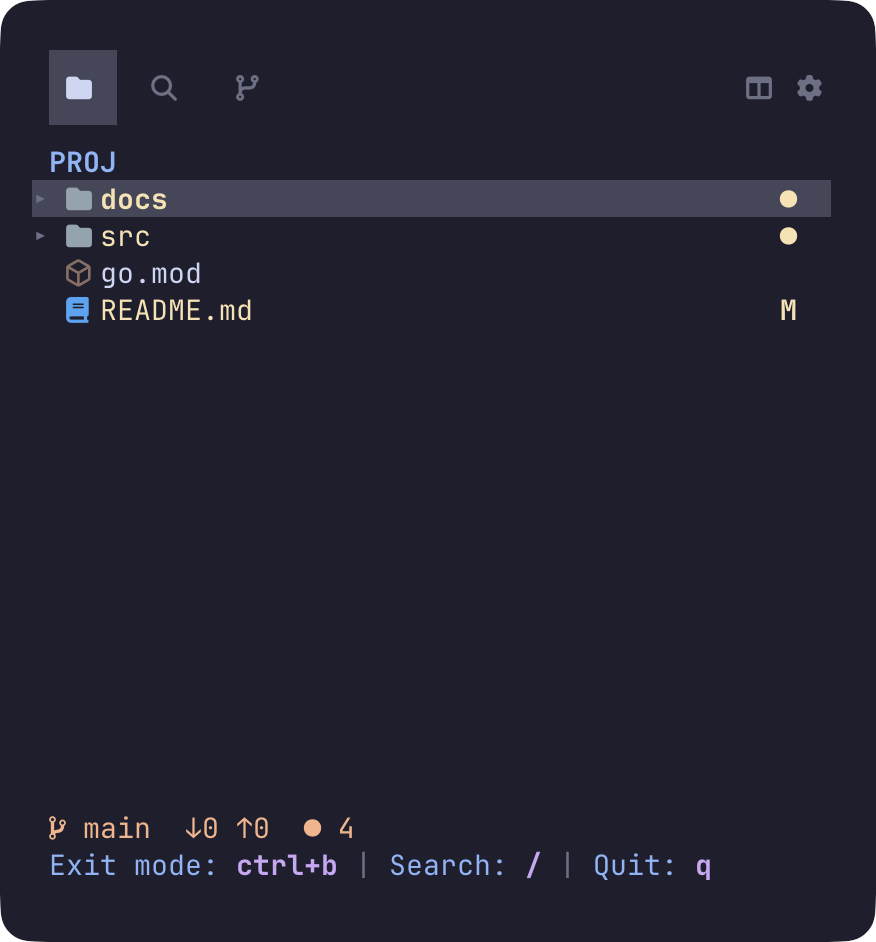
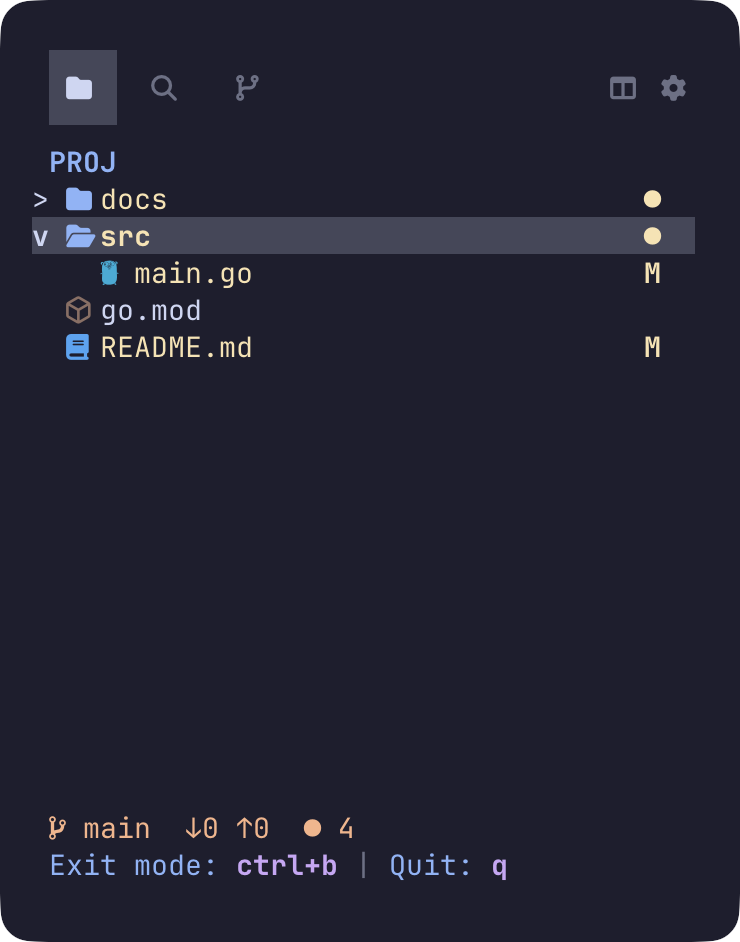
fix(ui): give the sidebar the colors of the window and switch modes at one small width
The sidebar rows used the herdr blue-grey folders, dimmed triangles and plain names, so the two modes looked like two programs. They now wear the colors of the normal window: > and v before a folder, blue folder icons and names. The sidebar became the window again only from 80 columns; now it switches back from 62, two cells over the limit where the window becomes the sidebar.

diff --git a/internal/ui/herdrlook_test.go b/internal/ui/herdrlook_test.go
@@ -4,6 +4,7 @@ import (
 	"strings"
 	"testing"
 
+	"github.com/MathiasDrizzy/lazyfinder/internal/icons"
 	"github.com/charmbracelet/x/ansi"
 )
 
@@ -58,24 +59,19 @@ func TestTheSidebarRowsAreTheIndentTheTriangleTheIconAndTheName(t *testing.T) {
 	e := projectEnv(t, 40)
 	x, y := e.find("alpha")
 	line := e.screen()[y]
-	if !strings.HasPrefix(line, "▸ ") {
-		t.Fatalf("a closed folder starts with ▸ at the first column: %q", line)
+	if !strings.HasPrefix(line, "> ") {
+		t.Fatalf("a closed folder starts with > at the first column, as in the window: %q", line)
 	}
 	if x != 4 {
 		t.Fatalf("the name of a top-level entry starts after the triangle and the icon (x=4), got %d: %q", x, line)
 	}
 	e.click(x, y)
-	if !strings.HasPrefix(e.screen()[y], "▾ ") {
-		t.Fatalf("an open folder starts with ▾: %q", e.screen()[y])
+	if !strings.HasPrefix(e.screen()[y], "v ") {
+		t.Fatalf("an open folder starts with v, as in the window: %q", e.screen()[y])
 	}
 	_, dy := e.find("deep")
-	if l := e.screen()[dy]; !strings.HasPrefix(l, "  ▸ ") {
+	if l := e.screen()[dy]; !strings.HasPrefix(l, "  > ") {
 		t.Fatalf("a nested folder is indented two cells per level: %q", l)
-	}
-	for _, l := range e.screen()[4:] {
-		if strings.HasPrefix(l, "> ") || strings.Contains(l, " > ") {
-			t.Fatalf("no > marker in the sidebar tree: %q", l)
-		}
 	}
 }
 
@@ -125,5 +121,25 @@ func TestEveryHeaderButtonIsDrawnInsideItsZone(t *testing.T) {
 				t.Fatalf("tab %d: button %d drawn %q in the middle of its zone, want %q: %q", tab, a.idx, got, want, e.screen()[a.y])
 			}
 		}
+	}
+}
+
+// Mathias, 2026-10-14: "parecen dos programas distintos, tienes que homologar … más parecido al finder": a folder in
+// the sidebar wears the colors of the normal window, the icon in its own color and the name in the folder style.
+func TestTheSidebarFoldersWearTheColorsOfTheWindow(t *testing.T) {
+	e := projectEnv(t, 40)
+	e.git("add", "-A")
+	e.git("commit", "-q", "-m", "clean") // without changes a folder wears no git color
+	e.key("r")
+	e.key("j") // the selection off alpha, so its row shows its plain colors
+	_, y := e.find("alpha")
+	raw := strings.Split(e.m.View().Content, "\n")[y]
+	icon, _, _ := strings.Cut(e.m.iconCell(e.m.icons.Pick(icons.Item{Name: "alpha", IsDir: true})), "\x1b[m")
+	if !strings.Contains(raw, icon) {
+		t.Fatalf("the folder icon has the color of the window %q: %q", icon, raw)
+	}
+	folder := e.m.styles.folder("alpha")
+	if open := folder[:strings.Index(folder, "alpha")]; open == "" || !strings.Contains(raw, open+"alpha") {
+		t.Fatalf("the folder name has the folder style %q: %q", folder, raw)
 	}
 }

diff --git a/internal/ui/project.go b/internal/ui/project.go
@@ -192,29 +192,24 @@ var projectFooterItems = []struct {
 	{keymap.Quit, func() string { return i18n.T("Salir", "Quit") }},
 }
 
-// folderIconRGB is the blue-grey of the folders of the herdr sidebar, softer than the blue of the normal window.
-const folderIconRGB = 0x90a4ae
-
-// treeRow draws row idx of the sidebar mode like a row of the herdr sidebar: the indent (two cells a level), a dimmed
-// triangle for folders, the icon and the name in the plain color (a git state recolors it), and at the right edge the
+// treeRow draws row idx of the sidebar mode with the layout of a row of the herdr sidebar and the colors of the normal
+// window (Mathias, 2026-10-14: the two modes must not look like two programs): the indent (two cells a level), the
+// > or v of a folder, the icon and the name in the folder style (a git state recolors it), and at the right edge the
 // git letter, or a dot for a folder with changes inside, with two cells after it. The selection only sets the
 // background, so the icon keeps its color.
 func (m *Model) treeRow(idx, width int) string {
 	e := m.entries()[idx]
 	chevron := "  "
 	if e.IsDir {
-		chevron = "▸ "
+		chevron = "> "
 		if m.expanded[e.Path] {
-			chevron = "▾ "
+			chevron = "v "
 		}
 	}
-	lead := m.styles.dim(strings.Repeat("  ", e.Depth) + chevron)
+	lead := strings.Repeat("  ", e.Depth) + chevron
 	used := 2*e.Depth + 2
 	if m.iconW() > 0 {
 		ic := m.icons.Pick(icons.Item{Name: e.Name, IsDir: e.IsDir, IsLink: e.IsLink, Open: m.expanded[e.Path]})
-		if ic.Role == icons.Folder && !ic.HasRGB {
-			ic.HasRGB, ic.RGB = true, folderIconRGB
-		}
 		lead += m.iconCell(ic)
 		used += m.iconW()
 	}
@@ -241,6 +236,8 @@ func (m *Model) treeRow(idx, width int) string {
 		name = m.styles.dim(name)
 	case m.git.ok && code != git.None:
 		name = m.styles.gitPaint(string(code), name)
+	case e.IsDir:
+		name = m.styles.folder(name)
 	}
 	line := lead + name
 	if marker != "" {

diff --git a/internal/ui/model.go b/internal/ui/model.go
@@ -470,11 +470,12 @@ func (m *Model) restyle() {
 }
 
 // The window changes mode by itself when it is resized across these widths: below autoSidebarW it would be too small
-// for the columns, so it becomes the sidebar; from autoWindowW up it is wide enough for the columns again. The gap
-// between them keeps a window that sits near the limit from flipping on every cell of a drag.
+// for the columns, so it becomes the sidebar; from autoWindowW up the columns fit again. Mathias, 2026-10-14, wanted
+// the switch only when the pane is really small, both ways, so the gap is the two cells that keep a drag along the
+// limit from flipping on every cell.
 const (
 	autoSidebarW = minWidth
-	autoWindowW  = 80
+	autoWindowW  = minWidth + 2
 )
 
 // autoMode switches between the normal window and the sidebar mode when the width crosses a limit; prevW is the

diff --git a/internal/ui/modebutton_test.go b/internal/ui/modebutton_test.go
@@ -181,13 +181,10 @@ func TestTheModeChangesByItselfWhenTheWindowIsResizedAcrossTheLimits(t *testing.
 	if !e.m.projectMode() {
 		t.Fatal("below 60 columns the window becomes the sidebar")
 	}
-	e.send(tea.WindowSizeMsg{Width: 70, Height: 30})
-	if !e.m.projectMode() {
-		t.Fatal("between 60 and 80 the sidebar stays: no flipping on every cell of a drag")
-	}
-	e.send(tea.WindowSizeMsg{Width: 100, Height: 30})
+	// Mathias, 2026-10-14: "bien pequeño tiene que cambiar hacia sidebar y hacia finder": one small limit both ways.
+	e.send(tea.WindowSizeMsg{Width: 62, Height: 30})
 	if e.m.projectMode() {
-		t.Fatal("from 80 columns up it is the normal window again")
+		t.Fatal("as soon as the columns fit again it is the normal window: 62 columns")
 	}
 }
 

diff --git a/CHANGELOG.md b/CHANGELOG.md
@@ -13,16 +13,16 @@ _Parity with the herdr sidebar is tabulated in `docs/PARITY-herdr-sidebar.md`._
 - The sidebar mode is drawn like the herdr sidebar (Mathias compared both, 2026-10-13): no frame of its own, a tab
   bar three rows tall whose active and hovered chips reach the rows above and below with half blocks (each row takes
   the click), four-cell tab chips that center the wide Nerd Font glyphs, dimmed tree buttons, the project name in
-  blue, and tree rows of `▸`/`▾` triangles, blue-grey folder icons and plain names with the git letter (or a dot for
-  a folder) two cells from the edge. The selected row keeps the colors of its icon and name.
+  blue, and tree rows with the git letter (or a dot for a folder) two cells from the edge. The rows wear the colors
+  of the normal window, `>`/`v` before a folder, blue folder icons and names, so both modes look like one program. The selected row keeps the colors of its icon and name.
 
 - The tree buttons of the sidebar mode (new file, new folder, collapse all) show while the pointer moves over the pane
   and fade three seconds after it stops, like the title bar buttons of the herdr sidebar; the border of the panel no
   longer repeats the project name that heads the tree.
 
 - The window and the sidebar mode switch by themselves when the terminal is resized: narrower than 60 columns the
-  window becomes the sidebar, and from 80 columns up the sidebar becomes the window again (the gap keeps it from
-  flipping on every cell of a drag). The mode the program started in stays until the first resize across a limit.
+  window becomes the sidebar, and from 62 columns up the sidebar becomes the window again (the two-cell gap keeps
+  a drag along the limit from flipping it on every cell). The mode the program started in stays until the first resize across a limit.
 
 - The Git tab of the sidebar mode, modelled on the herdr sidebar: Staged Changes, Changes and Stashes sections with
   counts; stage, unstage and discard (with a confirmation) by key or by the buttons of the row; the diff of a file in a

diff --git a/docs/qa-matriz.md b/docs/qa-matriz.md
@@ -101,7 +101,7 @@ Legend: **T** = Go test in `internal/ui` unless a package is named; **S** = tuiq
 | Function | Proof |
 |---|---|
 | Enter and leave (ctrl+b, the mode button, `--follow`) | T CtrlBTurnsTheProjectSidebarOnAndOff, T TheModeButtonSwitchesToTheSidebarModeAndBack, S mode-button, S follow-mode |
-| Window and sidebar switch by themselves when resized (below 60 columns, from 80 up) | T TheModeChangesByItselfWhenTheWindowIsResizedAcrossTheLimits, T TheModeTheProgramStartedInStaysUntilTheFirstResizeAcrossALimit |
+| Window and sidebar switch by themselves when resized (below 60 columns, from 62 up) | T TheModeChangesByItselfWhenTheWindowIsResizedAcrossTheLimits, T TheModeTheProgramStartedInStaysUntilTheFirstResizeAcrossALimit |
 | Buttons of equal width, every cell clickable; no refresh button; icon-only tabs with tooltips; click on a folder row opens it | T EveryCellOfAnActionButtonRunsIt, T ThereIsNoRefreshButtonBecauseTheListUpdatesByItself, T TheTabsShowOnlyTheirIconAndEachHasATooltip, T AClickAnywhereOnAFolderRowOpensAndClosesItInTheTree |
 | Every top-row glyph lies inside its own click and hover zone, in both modes and 14 widths | T EveryTopRowGlyphLiesInsideItsOwnZone, T EachGlyphIsDrawnInTheMiddleCellOfItsButton |
 | Tree buttons show with the pointer and fade; the name is not repeated; a narrow start is the sidebar | T TheTreeButtonsAppearWithThePointerAndFadeAfterItStops, T TheWindowToolbarKeepsItsButtonsAlways, T TheTreeHeaderAndTheBorderDoNotRepeatTheProjectName, T AWindowThatStartsNarrowerThanTheLimitIsTheSidebar |

diff --git a/README.md b/README.md
@@ -125,11 +125,11 @@ taken name gets a `copy` suffix and every step can be undone (see [ADR 0010](doc
 A narrow panel meant to sit next to another terminal, like the VS Code explorer and the herdr sidebar. Start it with
 `lazyfinder --sidebar [dir]` (`--follow <dir>` is the same), with `Ctrl+B` in any window, or from Settings (Side mode).
 The window and the sidebar mode also switch by themselves when you resize the terminal: below 60 columns the window
-becomes the sidebar, from 80 columns up the sidebar becomes the window again. It works from 24 columns:
+becomes the sidebar, from 62 columns up the sidebar becomes the window again. It works from 24 columns:
 
 - it is drawn like the herdr sidebar: no frame of its own (herdr frames the pane), a tab bar three rows tall with
   icon-only tabs **Files**, **Search** and **Git** (a tooltip names each; the chip of the active tab and of the one
-  under the pointer is a tall square), and a tree of `▸`/`▾` triangles, blue-grey folders and plain names;
+  under the pointer is a tall square), and a tree in the colors of the normal window (`>`/`v` before a folder, blue folders);
 - action icons at the right of the project name: new file, new folder, collapse all (the list updates by itself, so
   there is no refresh button). Like herdr, they show while the pointer moves over the pane and fade three seconds
   after it stops. Every icon has a tooltip in the bottom row, and the row or button under the pointer is painted;

diff --git a/docs/PARITY-herdr-sidebar.md b/docs/PARITY-herdr-sidebar.md
@@ -14,8 +14,8 @@ Taken from `explorer_app.rs` (`draw`, `draw_activity_bar`, `draw_header`, `row_l
 | Activity bar three rows tall, active chip extended with `▄`/`▀` half blocks, hover with the same geometry | same, rows 0–2; every row of a chip takes the click | done |
 | Chips `" G  "` (FA glyphs are two cells wide), one space apart, gear at the right edge | same chips; the mode button sits left of the gear | done |
 | Header: ` NAME` bold in the accent blue, title buttons right-aligned, dimmed, shown on mouse activity for 3 s | same (no refresh button: the list updates by itself) | done |
-| Row: indent of two cells a level, dimmed `▸`/`▾`, icon, plain name, git letter or `●` two cells from the edge, ignored names dimmed | same | done |
-| Blue-grey folder icon `#90a4ae` | same | done |
+| Row: indent of two cells a level, dimmed `▸`/`▾`, icon, plain name, git letter or `●` two cells from the edge, ignored names dimmed | same layout; `>`/`v` and the colors of the normal window (Mathias, 2026-10-14: both modes must look like one program) | done, colors different on purpose |
+| Blue-grey folder icon `#90a4ae` | the blue folder icon and name of the normal window | different on purpose |
 | Selection sets only the background (bold), icons keep their color | same | done |
 | Footer: git status and the `«` collapse button | branch and distance from upstream, key hints; no `«` (herdr's own pane control) | partial |
 
